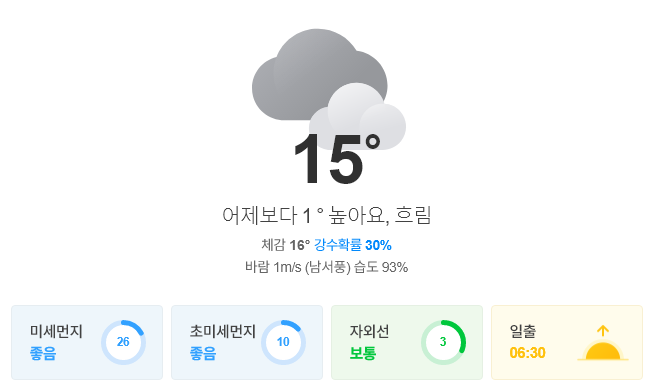
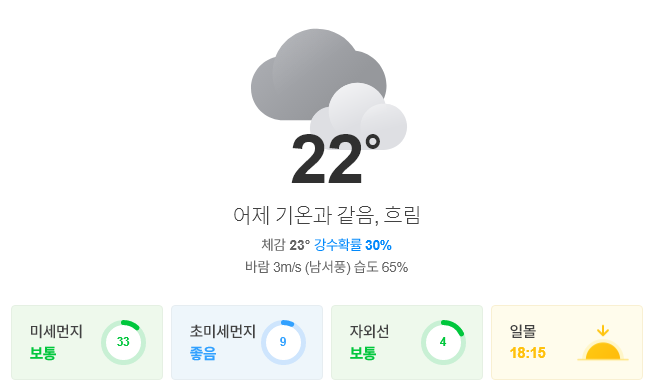
update result

diff --git a/README.md b/README.md
@@ -1,5 +1,5 @@
-##  2020-10-02 05:58:29   금요일 
-##### 날씨   -   어제보다 1 ° 높아요, 흐림
+##  2020-10-02 12:12:44   금요일 
+##### 날씨   -   어제 기온과 같음, 흐림
 <center><img src="../img/naver_weather_week.png"></center>
 ----
 ----
@@ -24,8 +24,8 @@
 <table border="1" bordercolor="blue" align = "center" >
 <tr align = "right" > <td>Item</td><td>Price</td><td>Diff</td><td>Rate</td><td>Buy</td><td>Sell</td><td>...</td>  </tr>
 <tr align = "right" > <td>USD</td><td>1,169.0</td><td>-1.0</td><td><font size="3" color="blue">-0.09%</font></td><td><font size="3" color="black">1,150</font></td><td><font size="3" color="black">0</font></td><td>0</td>  </tr>
-<tr align = "right" > <td>WTI</td><td>40.22</td><td>0.93</td><td><font size="3" color="red">2.36%</font></td><td><font size="3" color="black">29.0</font></td><td><font size="3" color="black">0</font></td><td>0</td>  </tr>
-<tr align = "right" > <td>GOLD</td><td>1,887.0</td><td>-6.8</td><td><font size="3" color="blue">-0.35%</font></td><td><font size="3" color="black">0</font></td><td><font size="3" color="black">0</font></td><td>0</td>  </tr>
+<tr align = "right" > <td>WTI</td><td>38.72</td><td>-1.5</td><td><font size="3" color="blue">-3.72%</font></td><td><font size="3" color="black">29.0</font></td><td><font size="3" color="black">0</font></td><td>0</td>  </tr>
+<tr align = "right" > <td>GOLD</td><td>1,908.0</td><td>20.9</td><td><font size="3" color="red">1.1%</font></td><td><font size="3" color="black">0</font></td><td><font size="3" color="black">0</font></td><td>0</td>  </tr>
 </table>
 ----
 ##### 주가
